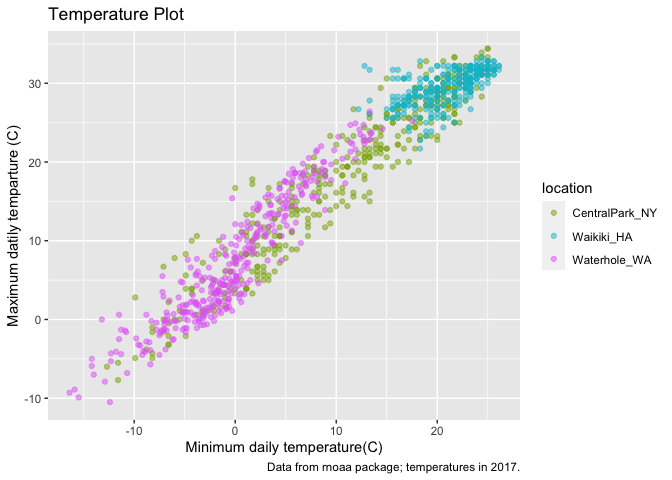
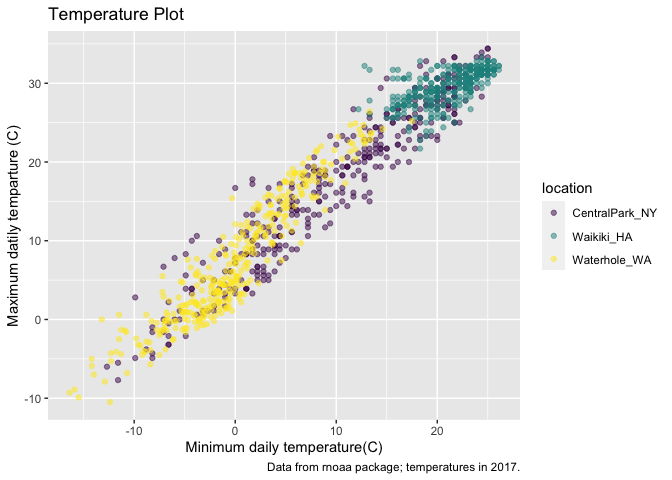
Scales

Changed region(s): [[0.125, 0.0938, 0.75, 0.8438], [0.8125, 0.5312, 0.8438, 0.5625], [0.0938, 0.8125, 0.125, 0.8438]]

diff --git a/Viz_I.md b/Viz_I.md
@@ -5,14 +5,14 @@ Visualization II
 library(tidyverse)
 ```
 
-    ## ── Attaching packages ──────────────── tidyverse 1.3.0 ──
+    ## ── Attaching packages ───────────────── tidyverse 1.3.0 ──
 
     ## ✓ ggplot2 3.3.2     ✓ purrr   0.3.4
     ## ✓ tibble  3.0.3     ✓ dplyr   1.0.2
     ## ✓ tidyr   1.1.2     ✓ stringr 1.4.0
     ## ✓ readr   1.3.1     ✓ forcats 0.5.0
 
-    ## ── Conflicts ─────────────────── tidyverse_conflicts() ──
+    ## ── Conflicts ──────────────────── tidyverse_conflicts() ──
     ## x dplyr::filter() masks stats::filter()
     ## x dplyr::lag()    masks stats::lag()
 
@@ -150,9 +150,9 @@ weather_df %>%
         y = "Maximum datily temparture (C)",
         caption = "Data from rnoaa package; temperatures in 2017."
     ) +
-  scale_color_hue(
-    name = "location",
-    h = c(100, 300))
+ viridis::scale_colour_viridis(
+   name = "location",
+    discrete = TRUE)
 ```
 
     ## Warning: Removed 15 rows containing missing values (geom_point).
